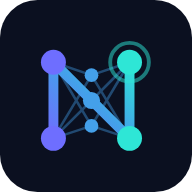
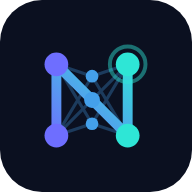
Use the designer's neural-N vector for the brand marks
Rebuilds every mark, the favicon and the app icons on the supplied 64-unit
grid (node positions, sizes, ten faint links, two-stop Indigo-to-Cyan route
gradient, halo) instead of the redraw traced from the identity PDF, and
re-renders the PNG icons.

Claude-Session: https://claude.ai/code/session_01DC6ku1XVzT4GAiBxq2SD83

diff --git a/docs/brand.md b/docs/brand.md
@@ -13,8 +13,9 @@ Nuronteq Brand Identity v1.0 (PDF, held by Adeel; raster only). What the code us
 | `favicon.svg`, `app-icon.svg`, `icon-*.png`, `apple-touch-icon.png` | Browser and PWA icons on Ink |
 | `admin.css` | Django admin skin (variable overrides only), wired in by `apps/platform/templates/admin/base_site.html` |
 
-The SVG marks were redrawn from the PDF's primary lockup on a 512 grid; swap them for the designer's vector
-files when those arrive (keep the file names). PNG icons are renders of the SVGs at 192, 512 and 180 px.
+The marks come from the designer's vector neural-N (`nuronteq-neural-n`, 64-unit grid): `mark-light.svg` reproduces
+its geometry and colours exactly, the other variants change only colours or drop elements as the identity specifies (Indigo
+becomes `#6E6EFF` on Ink). PNG icons are renders of the SVGs at 192, 512 and 180 px.
 
 Rules from the identity that code should keep: the wordmark is always lowercase `nuronteq` in Space Grotesk 600;
 Signal Cyan is for highlights and live status, never body text on white; body text is Inter at 16 px or more;
